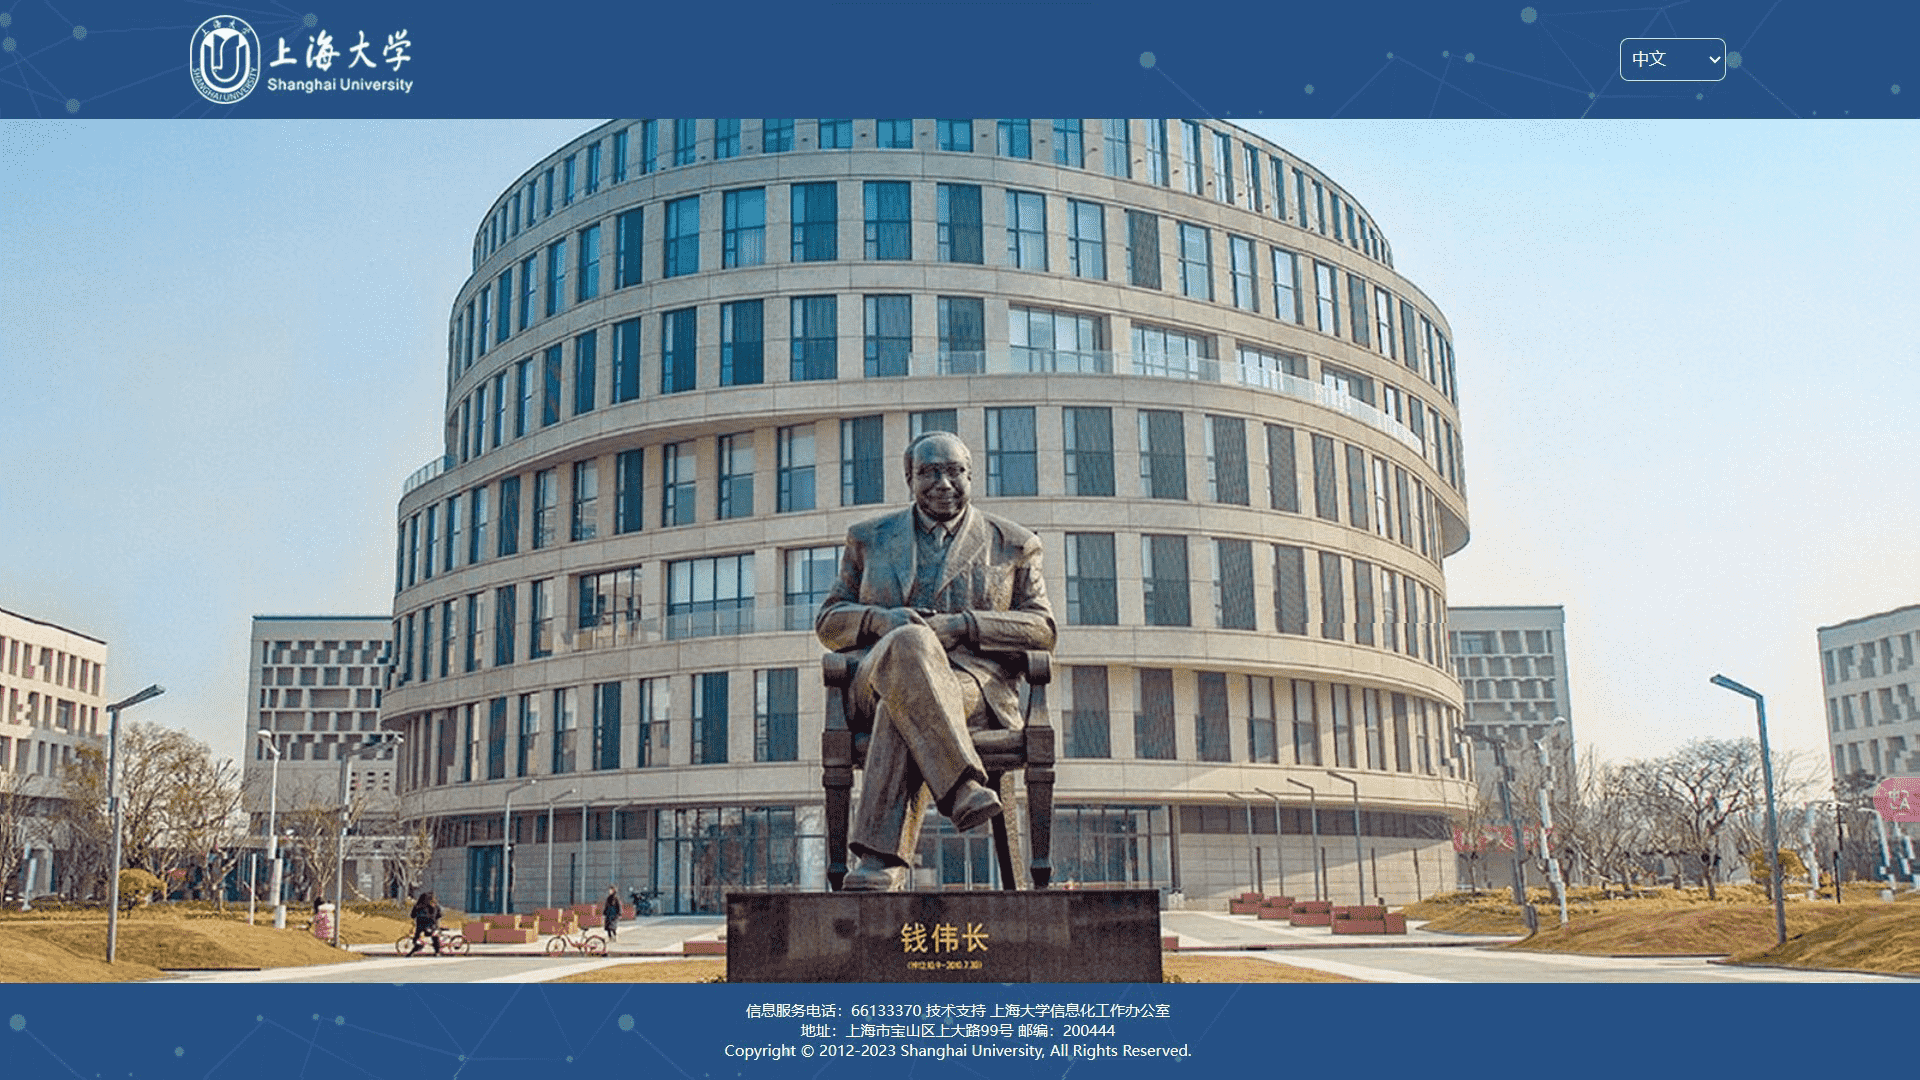
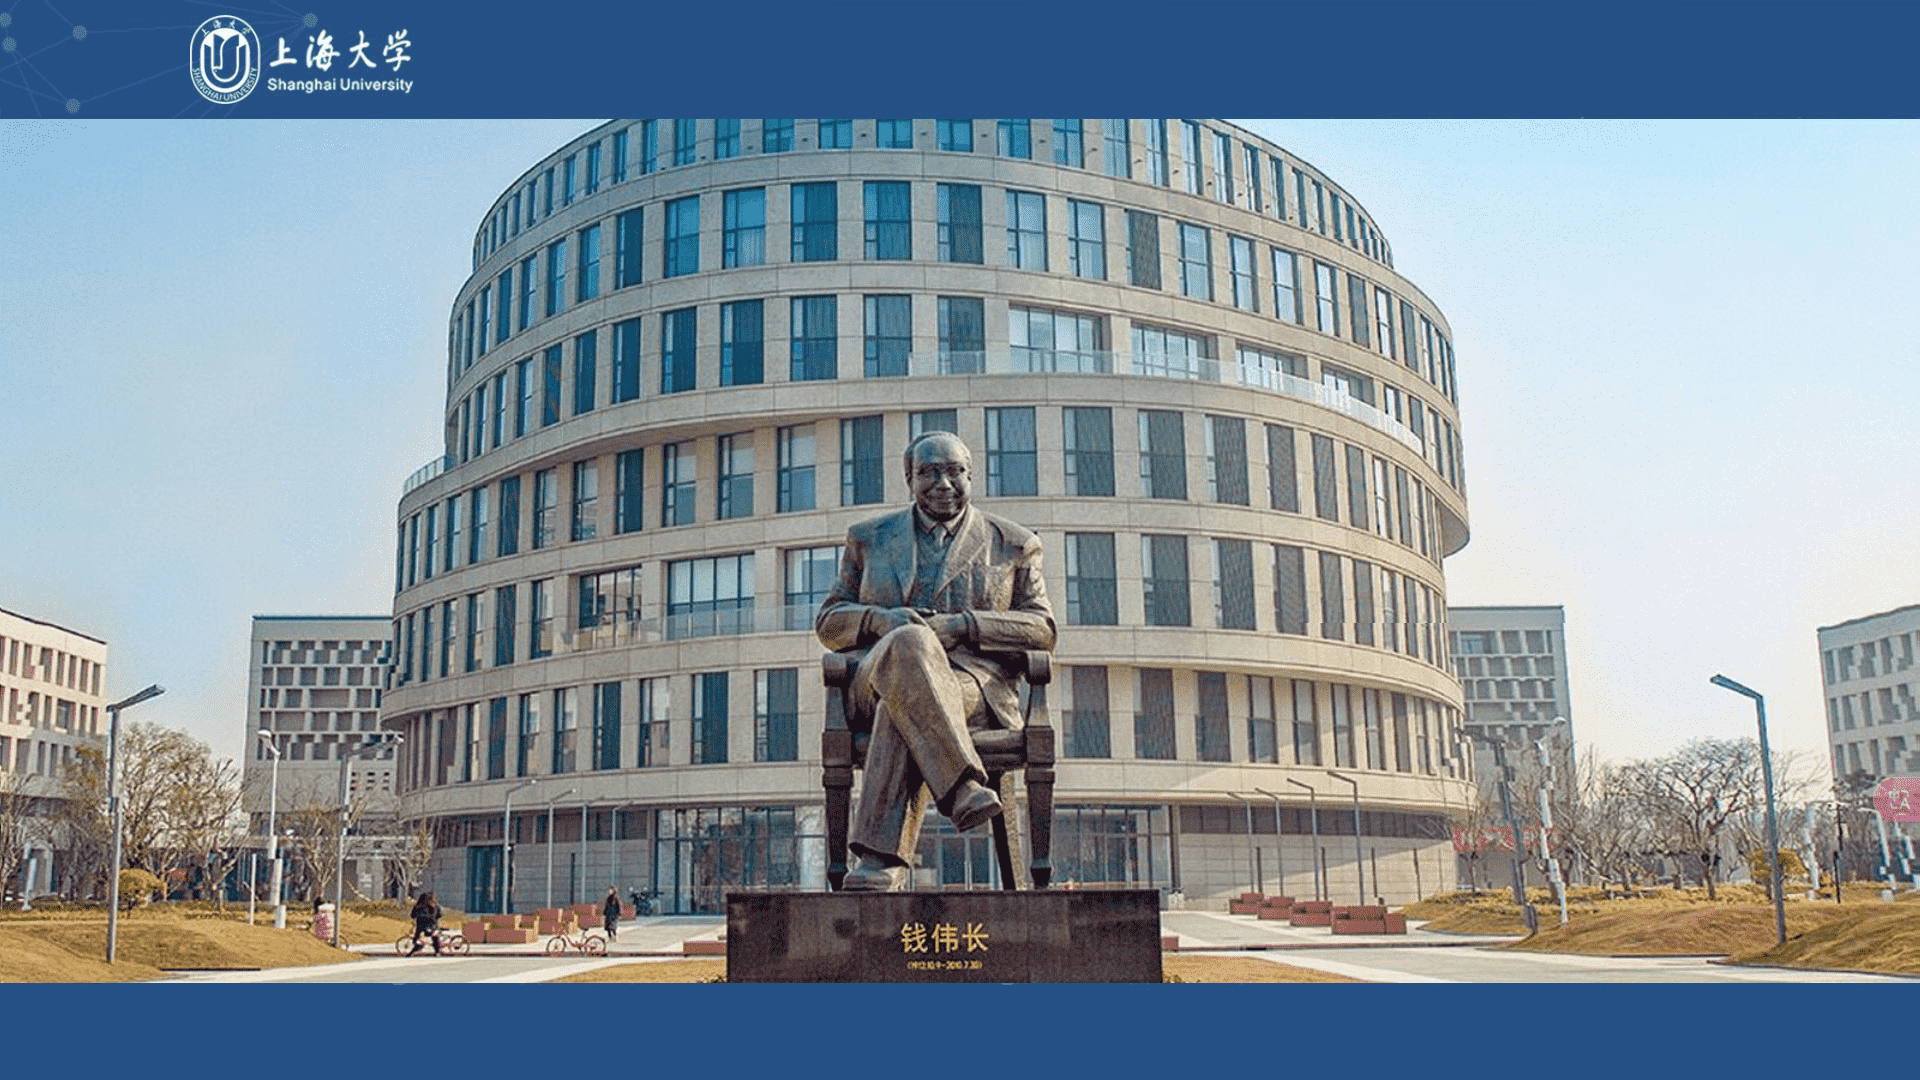
歪比巴卜

Changed region(s): [[0.375, 0.9167, 0.625, 0.9778], [0.8438, 0.0306, 0.9062, 0.0611], [0.7812, 0.0, 0.8125, 0.0306]]

diff --git a/courseSelectionSystem/css/login.css b/courseSelectionSystem/css/login.css
@@ -1,7 +1,7 @@
 .login-frame {
     width: 100%;
     height: 100%;
-    background-image: url(../image/login-bg.jpg);
+    background-image: url(../image/login-bg.png);
     background-size: 100vw 100vh;
     position: absolute;
     top: 0;
@@ -22,13 +22,13 @@
     height: 37.2vh;
     background-color: rgba(255, 255, 255, 0.8);
     position: absolute;
-    top: 15%;
-    right: 25%;
+    top: 25%;
+    right: 10%;
     display: flex;
     flex-direction: column;
     text-align: start;
     border-top: var(--maincolor) solid 0.5vw;
-    transform: skewX(5deg);
+
 
 }
 
